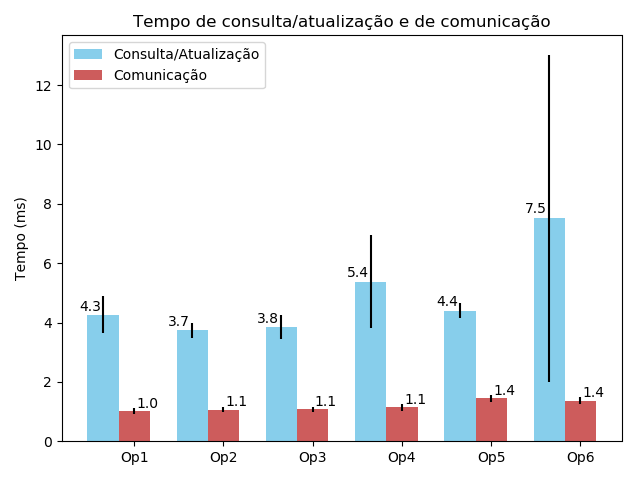
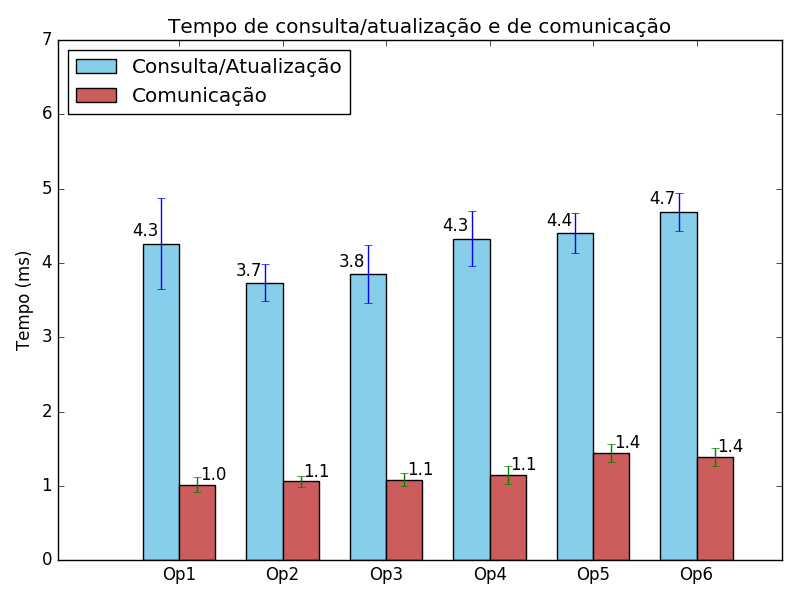
Update plot

diff --git a/lab03/plot.py b/lab03/plot.py
@@ -3,11 +3,11 @@
 import numpy as np
 import matplotlib.pyplot as plt
 
-op_means = (4.260997, 3.735667, 3.847504, 5.376635, 4.403842, 7.504373)
-op_std =   (0.616119, 0.243934, 0.390795, 1.556925, 0.267154, 5.517604)
+op_means = (4.260997, 3.735667, 3.847504, 4.326635, 4.403842, 4.687217)
+op_std =   (0.616119, 0.243934, 0.390795, 0.373852, 0.267154, 0.252629)
 
-com_means = (1.015860, 1.060541, 1.083282, 1.142348, 1.447465, 1.373099)
-com_std =   (0.100033, 0.077996, 0.086935, 0.122500, 0.120674, 0.107703)
+com_means = (1.015860, 1.060541, 1.083282, 1.142348, 1.447465, 1.390255)
+com_std =   (0.100033, 0.077996, 0.086935, 0.122500, 0.120674, 0.120734)
 
 
 ind = np.arange(len(op_means))  # the x locations for the groups
@@ -40,5 +40,6 @@ def autolabel(rects, xpos='center'):
 
 autolabel(rects1, "left")
 autolabel(rects2, "right")
+plt.ylim(top=7)
 plt.tight_layout()  
 plt.show()
